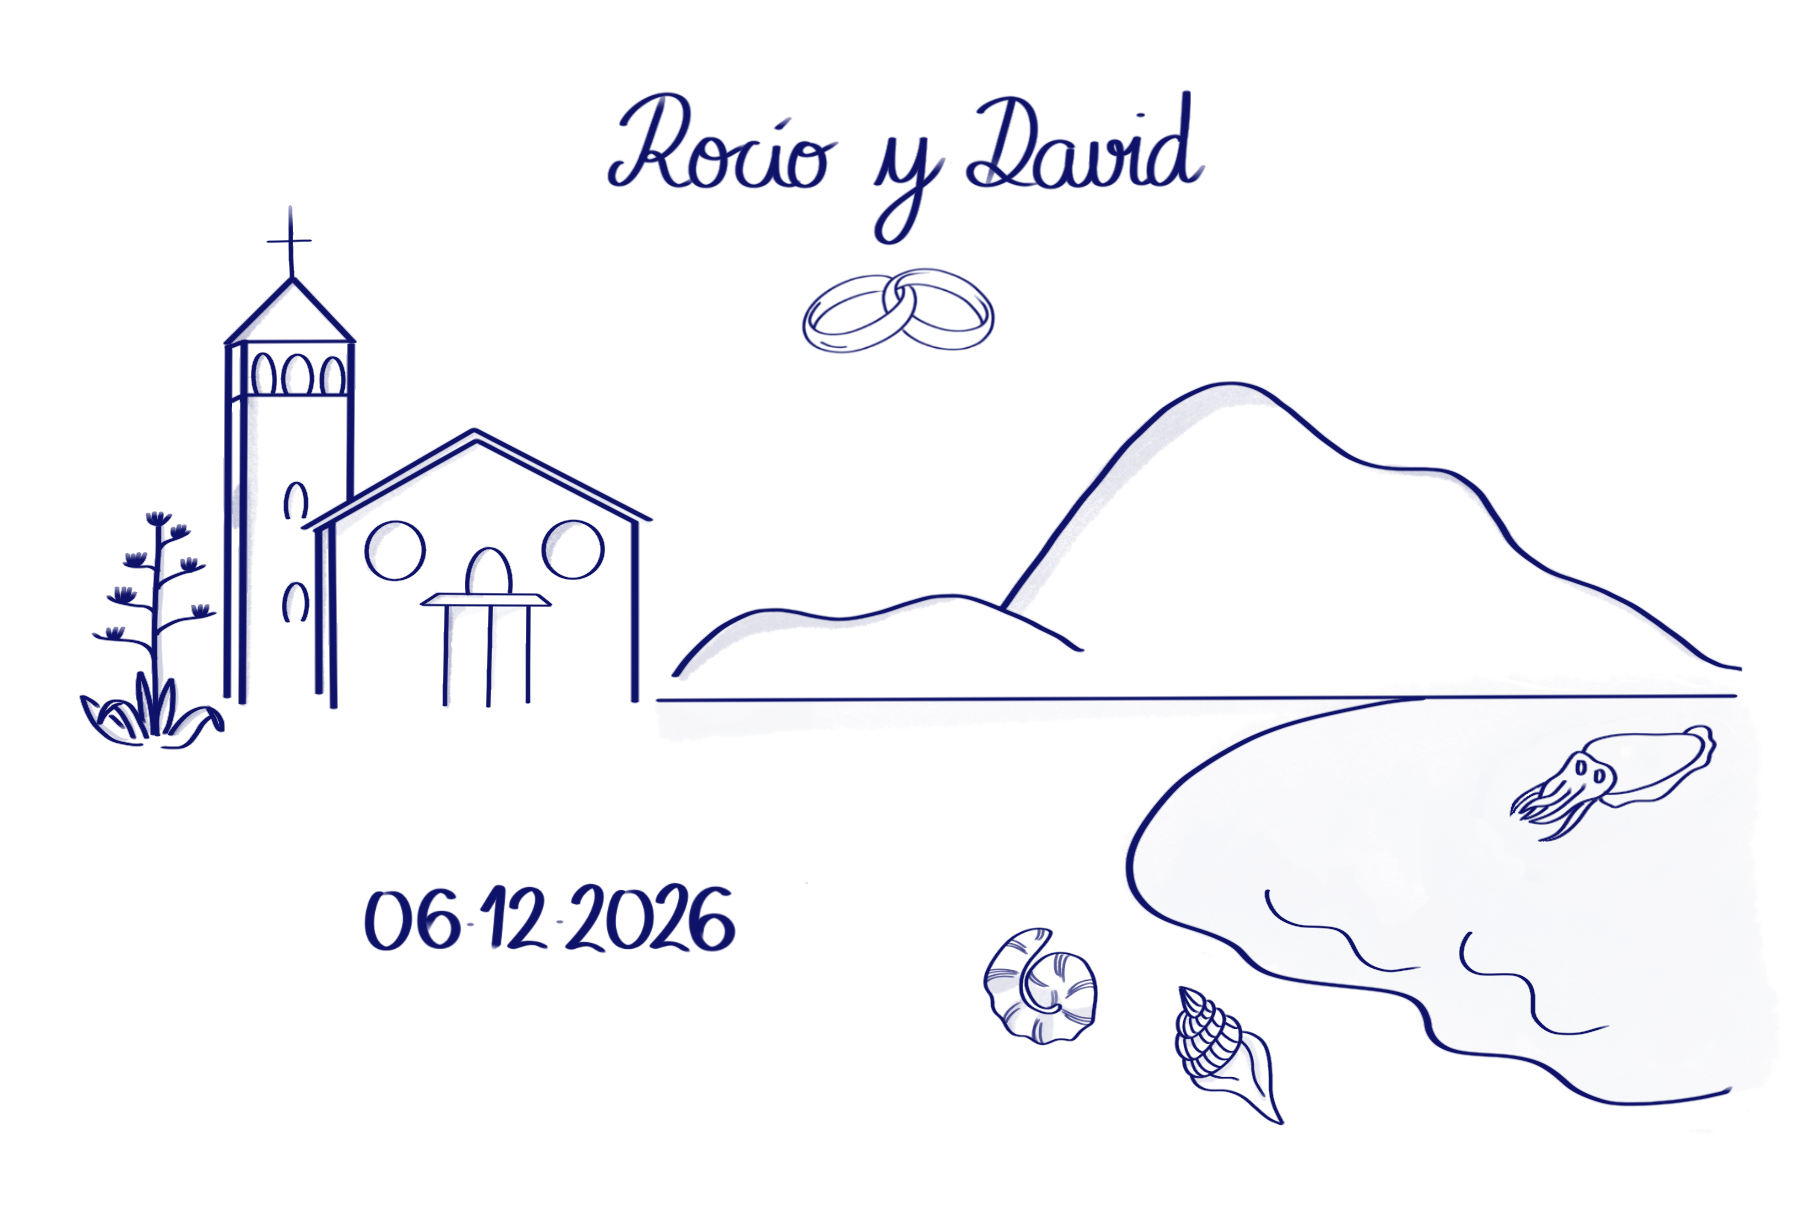
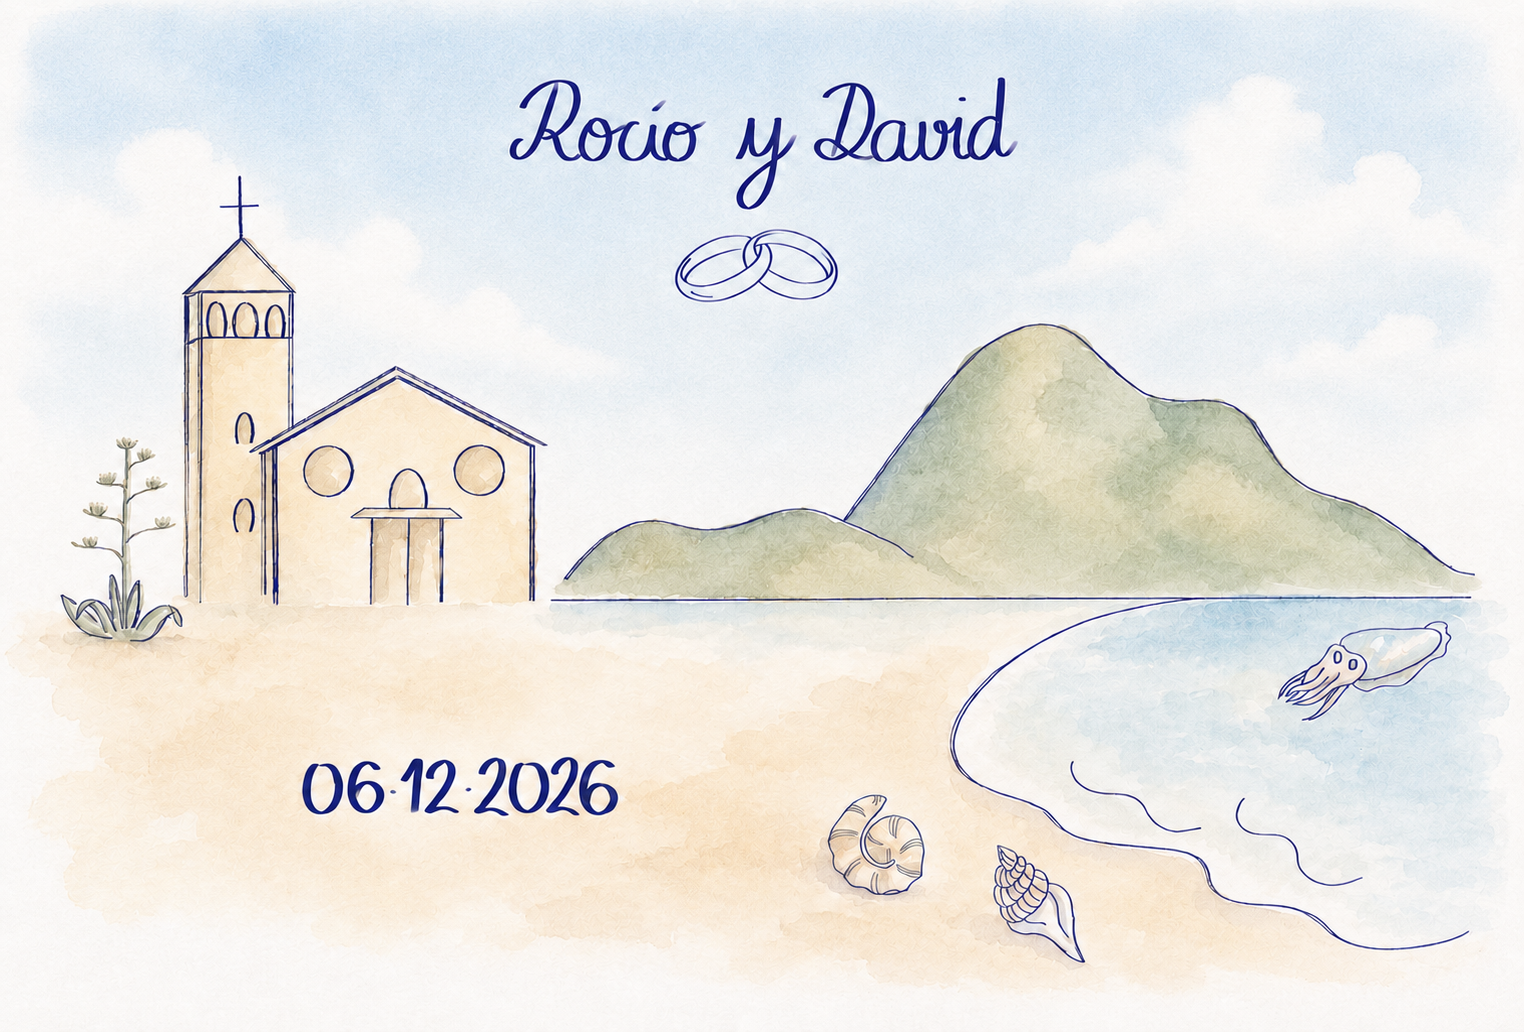
Bienvenida, historia con fotos, programa, FAQ y textos

diff --git a/index.html b/index.html
@@ -4,10 +4,10 @@
 <meta charset="UTF-8">
 <meta name="viewport" content="width=device-width, initial-scale=1.0">
 <title>Rocío y David · 6 Diciembre 2026</title>
-<meta name="description" content="Boda de Rocío y David · 6 de diciembre de 2026 · Castillo de Los Escullos, Almería">
+<meta name="description" content="Boda de Rocío y David · 6 de diciembre de 2026 · Los Escullos, Cabo de Gata, Almería">
 <meta property="og:title" content="Rocío & David · 06.12.2026">
-<meta property="og:description" content="¡Nos casamos! 6 de diciembre de 2026 · Los Escullos, Almería">
-<meta property="og:image" content="fotos/cover_boda_painted.png">
+<meta property="og:description" content="¡Nos casamos! 6 de diciembre de 2026 · Los Escullos, Cabo de Gata, Almería">
+<meta property="og:image" content="fotos/cover_boda.png">
 <link rel="preconnect" href="https://fonts.googleapis.com">
 <link href="https://fonts.googleapis.com/css2?family=Cormorant+Garamond:ital,wght@0,300;0,400;1,300;1,400;1,600&family=Jost:wght@300;400;500&display=swap" rel="stylesheet">
 <style>
@@ -97,6 +97,14 @@ body.locked #private-screen { display: none !important; }
 @media (max-width: 680px) { #hero { padding: 5rem 0.8rem 1.5rem; } }
 @keyframes fadeUp { from { opacity: 0; transform: translateY(26px); } to { opacity: 1; transform: translateY(0); } }
 
+/* ══ BIENVENIDA ══ */
+#bienvenida { background: var(--cream); text-align: center; padding: 5rem 2rem 4.5rem; }
+#bienvenida .inner { max-width: 640px; }
+.bienv-deco { display: flex; justify-content: center; margin-bottom: 2.2rem; }
+.bienv-text { font-family: 'Cormorant Garamond', serif; font-size: clamp(1.15rem, 2.4vw, 1.5rem); font-weight: 300; line-height: 1.75; color: var(--deep); opacity: 0.85; margin-bottom: 1.1rem; }
+.bienv-text strong { font-weight: 500; font-style: italic; color: var(--dark-sage); }
+.bienv-sign { font-family: 'Cormorant Garamond', serif; font-style: italic; font-size: 1.9rem; color: var(--dark-sage); margin-top: 1.9rem; }
+
 /* ══ COUNTDOWN ══ */
 #cuenta-atras { background: var(--deep); color: var(--cream); padding: 5rem 2rem; text-align: center; position: relative; overflow: hidden; }
 #cuenta-atras::before { content: ''; position: absolute; inset: 0; background: radial-gradient(ellipse 60% 80% at 15% 50%, rgba(74,99,68,0.15) 0%, transparent 55%), radial-gradient(ellipse 60% 80% at 85% 50%, rgba(138,158,133,0.1) 0%, transparent 55%); }
@@ -128,6 +136,19 @@ section { padding: 6rem 2rem; }
 .tl-body em { font-size: 1.2rem; display: block; margin-bottom: 0.35rem; }
 .tl-body h3 { font-family: 'Cormorant Garamond', serif; font-size: 1.35rem; font-weight: 400; margin-bottom: 0.4rem; }
 .tl-body p { font-size: 0.87rem; line-height: 1.85; opacity: 0.72; max-width: 500px; }
+
+/* ══ HISTORIA · relato ══ */
+.story { display: flex; flex-direction: column; gap: 3.5rem; }
+.story-row { display: grid; grid-template-columns: 1fr 1fr; gap: 2.5rem; align-items: center; }
+@media (min-width: 741px) { .story-row.rev { direction: rtl; } .story-row.rev > * { direction: ltr; } }
+.story-text p { font-size: 0.95rem; line-height: 1.95; opacity: 0.8; margin-bottom: 1rem; }
+.story-text p:last-child { margin-bottom: 0; }
+.story-foto { aspect-ratio: 4/5; overflow: hidden; background: var(--blush); border-radius: 3px; }
+.story-foto img { width: 100%; height: 100%; object-fit: cover; display: block; }
+.story-foto-ph { width: 100%; height: 100%; display: flex; flex-direction: column; align-items: center; justify-content: center; gap: 0.6rem; opacity: 0.4; font-size: 0.62rem; letter-spacing: 0.18em; text-transform: uppercase; background: linear-gradient(145deg, var(--blush), var(--ivory)); }
+.story-foto-ph span:first-child { font-size: 2rem; }
+.story-closing { max-width: 680px; margin: 1rem auto 0; text-align: center; font-family: 'Cormorant Garamond', serif; font-size: clamp(1.1rem, 2.2vw, 1.35rem); font-style: italic; line-height: 1.7; color: var(--dark-sage); }
+@media (max-width: 740px) { .story-row { grid-template-columns: 1fr; gap: 1.5rem; } .story-foto { aspect-ratio: 4/3; } }
 
 /* ══ LUGAR ══ */
 #lugar { background: var(--ivory); }
@@ -454,7 +475,17 @@ footer { background: var(--deep); color: var(--cream); text-align: center; paddi
 <div id="public-content">
 
 <section id="hero">
-  <img class="hero-img" src="fotos/cover_boda_painted.png" alt="Rocío y David · 6 de diciembre de 2026">
+  <img class="hero-img" src="fotos/cover_boda.png" alt="Rocío y David · 6 de diciembre de 2026">
+</section>
+
+<section id="bienvenida">
+  <div class="inner">
+    <div class="bienv-deco"><div class="deco-d"></div></div>
+    <p class="bienv-text reveal">Querida familia, amigos y amigas:</p>
+    <p class="bienv-text reveal">Nos emociona mucho invitaros a nuestra boda. El <strong>6 de diciembre de 2026</strong> nos casaremos, con todos vosotrxs, en <strong>Los Escullos</strong>.</p>
+    <p class="bienv-text reveal">Estamos deseando veros a todos allí.</p>
+    <div class="bienv-sign reveal">Rocío &amp; David</div>
+  </div>
 </section>
 
 <section id="cuenta-atras">
@@ -477,13 +508,30 @@ footer { background: var(--deep); color: var(--cream); text-align: center; paddi
       <h2 class="sec-title">Nuestra Historia</h2>
       <div class="deco"><div class="deco-d"></div></div>
     </div>
-    <div class="tl">
-      <div class="tl-row reveal"><div class="tl-year">2015</div><div class="tl-dot"></div><div class="tl-body"><em>✨</em><h3>La Disaster Party de Fabrik</h3><p>Un 17 de octubre en Fabrik, Madrid, sin ninguna intención de enamorarse. Era la Disaster Party, y vaya si fue desastroso: nos vimos, hablamos, y algo hizo clic. Esa noche empezó todo sin que ninguno de los dos lo supiera aún.</p></div></div>
-      <div class="tl-row reveal"><div class="tl-year">2018</div><div class="tl-dot"></div><div class="tl-body"><em>📍</em><h3>La distancia (que no pudo con nosotros)</h3><p>Tres años separados por kilómetros. Mensajes, llamadas, viajes y la certeza de que cuando algo vale la pena, la distancia es solo un obstáculo temporal. La distancia lo intentó. No pudo.</p></div></div>
-      <div class="tl-row reveal"><div class="tl-year">2021</div><div class="tl-dot"></div><div class="tl-body"><em>🏙</em><h3>David vuelve a Madrid</h3><p>Por fin en la misma ciudad. Lo que antes eran visitas se convirtió en rutinas, en compartir el café de cada mañana y los planes de cada fin de semana.</p></div></div>
-      <div class="tl-row reveal"><div class="tl-year">2023</div><div class="tl-dot"></div><div class="tl-body"><em>🏠</em><h3>Primer año viviendo juntos</h3><p>El gran salto. Compartir nevera, sábanas y espacio. Descubrir que somos completamente compatibles incluso cuando discutimos por quién saca al perro. (Spoiler: siempre David.)</p></div></div>
-      <div class="tl-row reveal"><div class="tl-year">2025</div><div class="tl-dot"></div><div class="tl-body"><em>💍</em><h3>La pedida · 27 de diciembre</h3><p>El 27 de diciembre de 2025, David lo preguntó. Rocío dijo que sí. Exactamente un año antes de su boda. Algunos llaman a eso planificación; nosotros lo llamamos destino.</p></div></div>
-      <div class="tl-row reveal"><div class="tl-year">2026</div><div class="tl-dot"></div><div class="tl-body"><em>💐</em><h3>El gran día · 6 de diciembre</h3><p>En el Castillo de Los Escullos, frente al mar de Almería, rodeados de las personas que más queremos.</p></div></div>
+    <div class="story">
+      <div class="story-row reveal">
+        <div class="story-text">
+          <p>Un 17 de octubre de 2015 empezaba la fiesta en Fabrik. Los dos habíamos ido con nuestros amigos, disfrazados, dispuestos a bailar y disfrutar. Y gracias a las casualidades, fue a las 4 de la mañana cuando coincidimos y nos pusimos a hablar.</p>
+          <p>Estuvimos todo el curso de segundo de carrera quedando para estudiar juntos y haciendo planes los fines de semana, y ese verano empezaron los viajes Madrid–Almería.</p>
+        </div>
+        <div class="story-foto"><div class="story-foto-ph"><span>📸</span><span>2015 · Fabrik</span></div></div>
+      </div>
+
+      <div class="story-row rev reveal">
+        <div class="story-text">
+          <p>La distancia creció en 2017, con Rocío en Marsella (Francia), y después fue David quien comenzó su tour internacional: Kiruna (Suecia), Toulouse (Francia), Bremen (Alemania) y vuelta a Almería. Todos estos años tuvieron muchos aviones, muchas despedidas y, sobre todo, muchos reencuentros y recuerdos juntos.</p>
+        </div>
+        <div class="story-foto"><div class="story-foto-ph"><span>✈</span><span>La distancia</span></div></div>
+      </div>
+
+      <div class="story-row reveal">
+        <div class="story-text">
+          <p>2021 fue el año en que volvimos a juntarnos en Madrid, después de una Filomena y con un contrato de doctorando. Volvieron los atardeceres en el Templo de Debod, las cenas con descuentos y las comidas en familia, y eventualmente llegó el momento de empezar a construir un hogar juntos en 2023.</p>
+        </div>
+        <div class="story-foto"><div class="story-foto-ph"><span>🌆</span><span>Madrid, 2021</span></div></div>
+      </div>
+
+      <p class="story-closing reveal">Toda esta historia, muy resumida, nos ha traído hasta aquí. 11 años después de que nuestros caminos se cruzaran, queremos rodearnos de todos vosotros, celebrar el amor, la vida y el futuro que está por venir, y comenzar un nuevo capítulo de esta bonita historia que solo sigue en sus inicios 💘</p>
     </div>
   </div>
 </section>
@@ -602,26 +650,24 @@ footer { background: var(--deep); color: var(--cream); text-align: center; paddi
     <p class="prog-intro reveal">Celebrar tanto amor en un solo día nos parecía imposible. Por eso queremos vivir todo el puente de diciembre rodeados de nuestra gente: llegar sin prisas, reencontrarnos, celebrar y despedirnos poco a poco.</p>
     <div class="prog-grid">
       <div class="prog-day prog-day-viesab reveal">
-        <div class="prog-day-head"><div class="prog-day-name">Viernes o Sábado</div><div class="prog-day-date">4–5 Diciembre · Llegada</div></div>
+        <div class="prog-day-head"><div class="prog-day-name">Viernes o Sábado</div><div class="prog-day-date">4–5 Diciembre · Llegadas</div></div>
         <div class="prog-events">
-          <div class="prog-event"><div class="prog-time">Todo el día</div><div class="prog-info"><h4>Llegada a Los Escullos</h4><p>Llega cuando puedas. Las autopistas A-7 y A-92 te llevan directos al Cabo de Gata.</p></div></div>
-          <div class="prog-event"><div class="prog-time">Tarde</div><div class="prog-info"><h4>Instalarse y explorar la zona</h4><p>Ir juntándonos todos.</p></div></div>
+          <div class="prog-event"><div class="prog-time">Todo el día</div><div class="prog-info"><h4>Llegada a Los Escullos</h4><p>Llega cuando puedas. Las autopistas A-7 y A-92 te llevan directos al Cabo de Gata. Instálate y explora la zona; nosotros estaremos desde el viernes. Avísanos cuando llegues e iremos juntándonos todos.</p></div></div>
         </div>
       </div>
       <div class="prog-day prog-day-sab reveal">
         <div class="prog-day-head"><div class="prog-day-name">Sábado</div><div class="prog-day-date">5 Diciembre</div></div>
         <div class="prog-events">
-          <div class="prog-event"><div class="prog-time">19:00h</div><div class="prog-info"><h4>Pre-boda</h4><p>En el propio hotel donde celebraremos el gran día nos reuniremos todos para una cena de picoteo.</p></div></div>
-          <div class="prog-event-nota"><p>Nos recogeremos pronto, a las 23:00h, que mañana toca estar frescos y guapos, ¡y sin retrasos!</p></div>
+          <div class="prog-event"><div class="prog-time">19:00h</div><div class="prog-info"><h4>Pre-boda</h4><p>Nos reuniremos para daros la bienvenida. Una cena de picoteo es la excusa perfecta para saludarnos e ir calentando motores.</p></div></div>
         </div>
       </div>
       <div class="prog-day prog-day-dom reveal">
         <div class="prog-day-head"><div class="prog-day-name">Domingo · El Gran Día</div><div class="prog-day-date">6 Diciembre 2026</div></div>
         <div class="prog-events">
-          <div class="prog-event"><div class="prog-time">12:00h</div><div class="prog-icon">⛩</div><div class="prog-info"><h4>Ceremonia</h4><p>Castillo de San Felipe, frente al Mediterráneo.</p></div></div>
-          <div class="prog-event"><div class="prog-time">13:30h</div><div class="prog-icon">🥂</div><div class="prog-info"><h4>Cóctel</h4><p>Brindaremos en el hotel con el mar de fondo.</p></div></div>
+          <div class="prog-event"><div class="prog-time">12:00h</div><div class="prog-icon">👰🏻♀🤵🏽♂</div><div class="prog-info"><h4>Ceremonia</h4><p>Iglesia de Rodalquilar.</p></div></div>
+          <div class="prog-event"><div class="prog-time">13:30h</div><div class="prog-icon">🥂</div><div class="prog-info"><h4>Cóctel</h4><p>Brindaremos en el hotel Los Escullos.</p></div></div>
           <div class="prog-event"><div class="prog-time">15:30h</div><div class="prog-icon">🍽</div><div class="prog-info"><h4>Comida de boda</h4><p>Menú con los mejores productos de Almería.</p></div></div>
-          <div class="prog-event"><div class="prog-time">Tarde ∞</div><div class="prog-icon">🎶</div><div class="prog-info"><h4>Fiesta · Hasta que el cuerpo aguante</h4><p>Música, baile y recuerdos para siempre.</p></div></div>
+          <div class="prog-event"><div class="prog-time">Tarde</div><div class="prog-icon">🎶</div><div class="prog-info"><h4>Fiesta</h4><p>Hasta que el cuerpo aguante.</p></div></div>
         </div>
       </div>
       <div class="prog-day prog-day-lun reveal">
@@ -649,7 +695,7 @@ footer { background: var(--deep); color: var(--cream); text-align: center; paddi
       <h2 class="sec-title">El Tiempo en Almería</h2>
       <div class="deco"><div class="deco-d"></div></div>
     </div>
-    <p class="tiempo-intro">El puente de diciembre en Almería suele ser uno de los mejores destinos de España en esta época. Esperamos tener un día soleado o con nubes y claros — históricamente, las probabilidades están de nuestra parte.</p>
+    <p class="tiempo-intro">El puente de diciembre en Almería suele ser uno de los mejores destinos de España. Esperamos tener un día soleado o con nubes y claros — históricamente, las probabilidades están de nuestra parte. En cuanto a la temperatura, aunque dé el sol durante el cóctel, mejor llevar una capa que nos abrigue de la brisa y cuando baje la temperatura al caer la tarde.</p>
     <div class="tiempo-cards reveal">
       <div class="tiempo-card"><span class="tiempo-card-icon">🌡</span><div class="tiempo-card-label">Máxima del día</div><div class="tiempo-card-val">17–22°C</div><div class="tiempo-card-sub">Agradable para estar al aire libre</div></div>
       <div class="tiempo-card"><span class="tiempo-card-icon">🌙</span><div class="tiempo-card-label">Mínima nocturna</div><div class="tiempo-card-val">8–12°C</div><div class="tiempo-card-sub">Llevar abrigo para la fiesta</div></div>
@@ -677,13 +723,13 @@ footer { background: var(--deep); color: var(--cream); text-align: center; paddi
       <div class="deco"><div class="deco-d"></div></div>
     </div>
     <div class="faq-wrap">
-      <div class="faq-item"><button class="faq-q-btn"><span class="faq-q-text">¿Cómo veo mi alojamiento?</span><span class="faq-ico">+</span></button><div class="faq-ans">Accede a tu zona privada con el usuario y contraseña que te hemos enviado. Encontrarás el alojamiento que hemos reservado para ti.</div></div>
-      <div class="faq-item"><button class="faq-q-btn"><span class="faq-q-text">¿Puedo llevar a mis hijos?</span><span class="faq-ico">+</span></button><div class="faq-ans">¡Cuéntanos! Escríbenos en el mensaje del formulario de confirmación y lo hablamos.</div></div>
-      <div class="faq-item"><button class="faq-q-btn"><span class="faq-q-text">¿Hay opciones para vegetarianos o alergias?</span><span class="faq-ico">+</span></button><div class="faq-ans">Sí. Indícalo en el campo de alergias del formulario de confirmación en tu zona privada.</div></div>
-      <div class="faq-item"><button class="faq-q-btn"><span class="faq-q-text">¿Qué tiempo hace en el puente de diciembre en Almería?</span><span class="faq-ico">+</span></button><div class="faq-ans">El puente de diciembre en Almería suele tener un tiempo bastante suave: máximas entre 17 °C y 22 °C, y mínimas entre 8 °C y 12 °C. Eso sí, estando cerca del mar puede soplar algo de viento.</div></div>
+      <div class="faq-item"><button class="faq-q-btn"><span class="faq-q-text">¿Qué tiempo hace en el puente de diciembre en Almería?</span><span class="faq-ico">+</span></button><div class="faq-ans">El puente de diciembre en Almería suele tener un tiempo bastante suave: máximas entre 17 °C y 22 °C, y mínimas entre 8 °C y 12 °C. Eso sí, al anochecer y cerca del mar puede soplar algo de viento; tráete algo que abrigue más.</div></div>
       <div class="faq-item"><button class="faq-q-btn"><span class="faq-q-text">¿Cuál es el dress code?</span><span class="faq-ico">+</span></button><div class="faq-ans">La boda es al aire libre en diciembre, por lo que recomendamos comodidad y elegancia con capas. ¡Y que vivan los colores! Solo te pedimos que evites el blanco — ese color se lo reservamos a la novia.</div></div>
-      <div class="faq-item"><button class="faq-q-btn"><span class="faq-q-text">¿Puedo hacer fotos durante la ceremonia?</span><span class="faq-ico">+</span></button><div class="faq-ans">Durante la ceremonia os pedimos que guardéis los móviles. En el cóctel y la fiesta, ¡foto libre! Recordad compartir con los novios todas las imágenes del día.</div></div>
-      <div class="faq-item"><button class="faq-q-btn"><span class="faq-q-text">¿Cuándo es la fecha límite para confirmar?</span><span class="faq-ico">+</span></button><div class="faq-ans">Antes del 1 de Octubre de 2026. ¡Cuanto antes mejor!</div></div>
+      <div class="faq-item"><button class="faq-q-btn"><span class="faq-q-text">¿Puedo hacer fotos durante la ceremonia?</span><span class="faq-ico">+</span></button><div class="faq-ans">Durante la ceremonia os pedimos que guardéis los móviles y disfrutéis junto a nosotros. En el cóctel y la fiesta, ¡foto libre! Recordad compartir con los novios todas las imágenes del día.</div></div>
+      <div class="faq-item"><button class="faq-q-btn"><span class="faq-q-text">¿Cuándo es la fecha límite para confirmar?</span><span class="faq-ico">+</span></button><div class="faq-ans">Antes del 1 de octubre de 2026, por favor. Cuanto antes, mejor. ¡Esperamos veros a todos allí!</div></div>
+      <div class="faq-item"><button class="faq-q-btn"><span class="faq-q-text">¿Habrá zapatos de regalo?</span><span class="faq-ico">+</span></button><div class="faq-ans">No habrá zapatos de recambio, pero en el hotel habrá espacio suficiente para vuestras pertenencias, por si queréis llevaros unos de repuesto para la fiesta. Podréis dejar zapatos y abrigos al llegar, para mayor comodidad.</div></div>
+      <div class="faq-item"><button class="faq-q-btn"><span class="faq-q-text">¿Hay opciones para vegetarianos o alergias alimentarias?</span><span class="faq-ico">+</span></button><div class="faq-ans">Sí. En el formulario de confirmación podrás indicar si eres vegetariano/a, sin gluten o sin lactosa, o contarnos cualquier otra alergia o intolerancia.</div></div>
+      <div class="faq-item"><button class="faq-q-btn"><span class="faq-q-text">¿Puedo ir con mis hijos?</span><span class="faq-ico">+</span></button><div class="faq-ans">¡Por supuesto! Los peques están más que invitados. Indícanos si finalmente vienen en el mensaje del formulario de confirmación y lo hablamos.</div></div>
     </div>
   </div>
 </section>
@@ -691,13 +737,13 @@ footer { background: var(--deep); color: var(--cream); text-align: center; paddi
 <div id="gate" style="background:var(--ivory);padding:5rem 2rem;text-align:center;border-top:1px solid rgba(74,99,68,0.12)">
   <div style="font-size:2.5rem;margin-bottom:1rem;opacity:0.4">🔐</div>
   <div style="font-family:'Cormorant Garamond',serif;font-size:2rem;font-weight:300;font-style:italic;color:var(--dark-sage);margin-bottom:0.6rem">Tu zona privada</div>
-  <p style="font-size:0.88rem;opacity:0.6;line-height:1.7;max-width:400px;margin:0 auto 2rem">Accede con tu usuario y contraseña para ver tu alojamiento, confirmar asistencia y los datos del regalo.</p>
+  <p style="font-size:0.88rem;opacity:0.6;line-height:1.7;max-width:400px;margin:0 auto 2rem">Accede con tu usuario y contraseña para confirmar asistencia y completar el formulario.</p>
   <button onclick="miZonaClick(event)" style="display:inline-block;padding:0.95rem 2.5rem;background:var(--dark-sage);color:white;border:none;font-family:'Jost',sans-serif;font-size:0.72rem;letter-spacing:0.25em;text-transform:uppercase;cursor:pointer;transition:background 0.3s" onmouseover="this.style.background='#3a5035'" onmouseout="this.style.background='var(--dark-sage)'">Acceder a mi zona →</button>
 </div>
 
 <footer>
   <div class="ft-names">Rocío &amp; David</div>
-  <div class="ft-sub">06 · 12 · 2026 &nbsp;·&nbsp; Los Escullos, Almería</div>
+  <div class="ft-sub">06 · 12 · 2026 &nbsp;·&nbsp; Los Escullos, Cabo de Gata, Almería</div>
   <div class="ft-line"></div>
 </footer>
 
